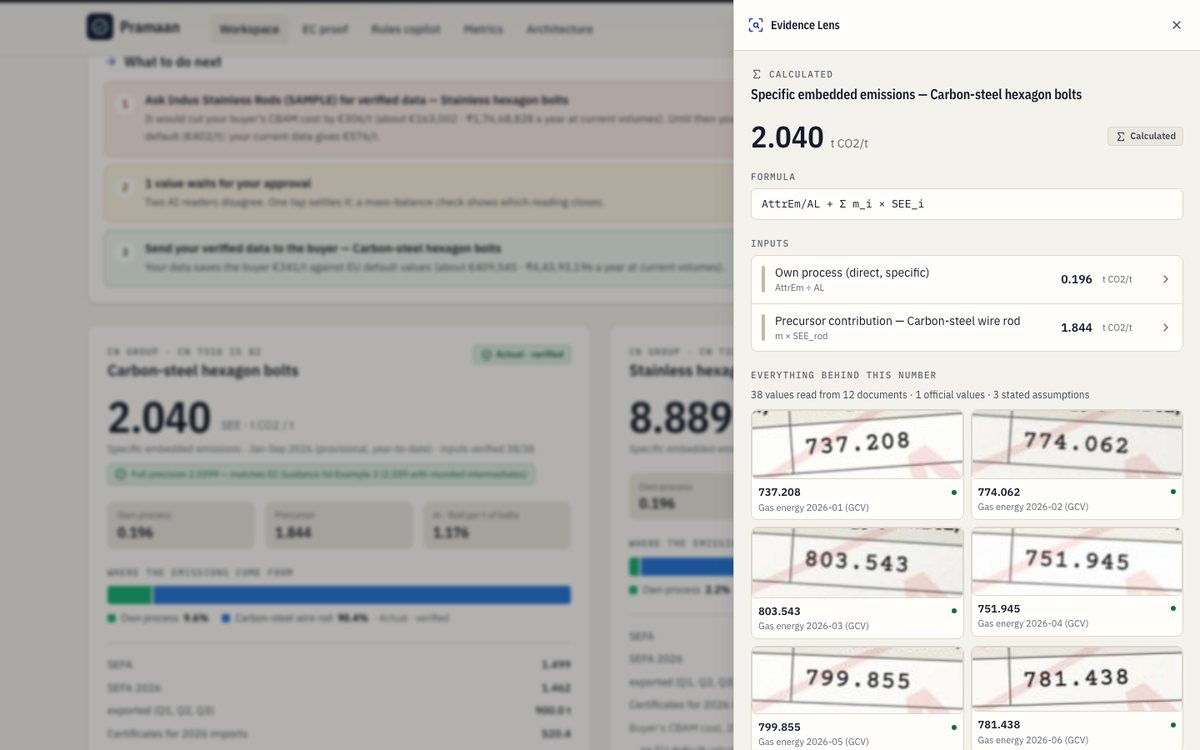
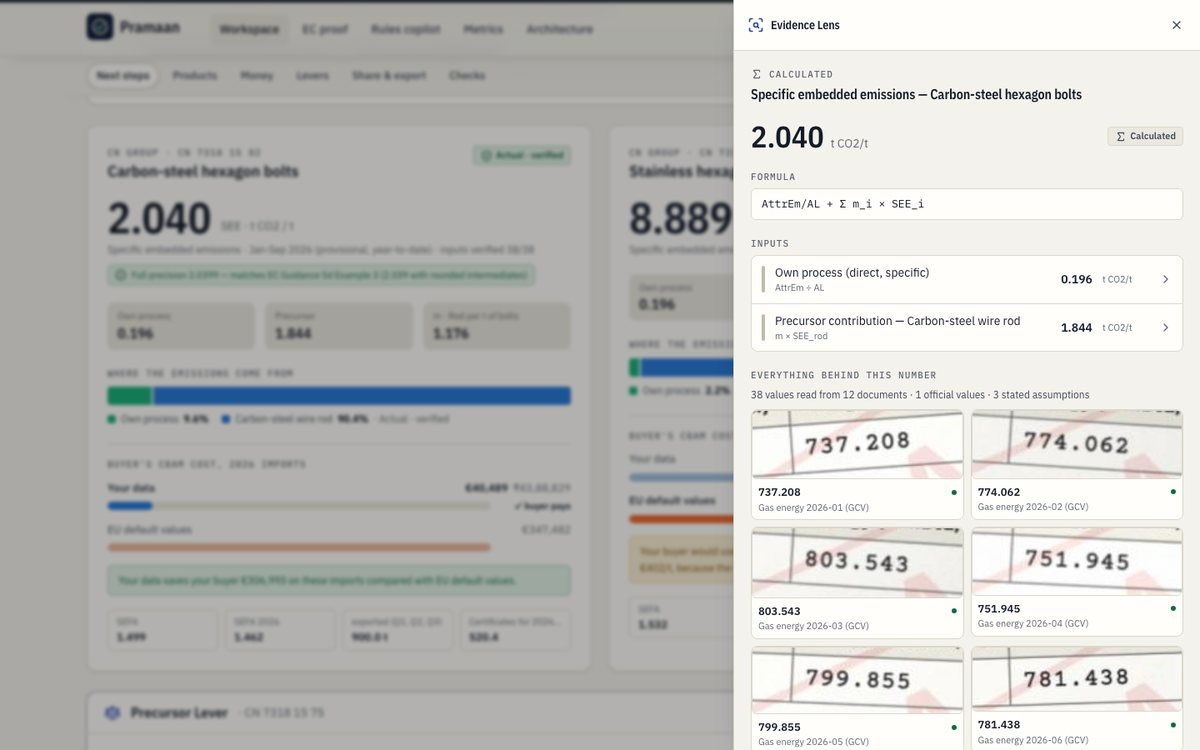
docs: design and motion section, new screenshots and GIF, progress log
Claude-Session: https://claude.ai/code/session_01YFRL3vM1jtQaZox7nyY3Ef

diff --git a/docs/DEMO_SCRIPT.md b/docs/DEMO_SCRIPT.md
@@ -8,8 +8,8 @@ are what the sample factory shows (Jan–Sep 2026, provisional).
 |---|---|---|
 | **0:00 – 0:20** · Hook | Landing page; hero lens cycling over the gas bill and the handwritten scrap log | "Ludhiana. A bolt maker's German buyer writes: send your CBAM emissions data — or cut your price. Since January the EU charges importers for the carbon in steel goods, and without verified data they pay on punitive default values. Twenty-five to thirty thousand Indian MSMEs are exposed. Pramaan gives them CBAM proof from a phone photo." |
 | **0:20 – 0:45** · Capture | Click **Process live** → Capture: 24 photos (gas bills, rod invoices, Hindi/Punjabi register and scrap log). Agent timeline streams: Classifier 24/24, Extractor, SecondReader | "The owner photographs bills, rod invoices and the handwritten registers. An ADK workflow takes over: Gemini 3.8 Flash classifies each page and reads every value with its exact region. Then a second model, Gemini 3.5 Flash-Lite, re-reads only the cropped region — blind — and the two readings must agree." |
-| **0:45 – 1:15** · Evidence Lens + review | **Close gaps**: the amber card — scrap log, "13.4" crossed out, "15.4" written. Mass-balance hint. Click **Approve 15.4**. Then Report → click **SEE 2.040** → Lens: 38 values from 12 documents → click a gas bill thumbnail → photo zooms to the highlighted 737.208 MMBtu, both readings, verified | "212 of 213 values agree. One handwritten correction doesn't — reader one sees 15.4, reader two sees the struck-out 13.4. The mass balance closes only with 15.4, so the owner approves it, and that approval is logged with name and time. Every number is clickable: the SEE of 2.04 opens its formula, then every value behind it, down to the highlighted box on the original photo." |
-| **1:15 – 1:45** · What to do next + Precursor Lever + Money on the table | Report opens on **What to do next**: (1) ask Indus Stainless Rods for verified data — saves the buyer €306/t, about €163,000 a year; until then the buyer uses the EU default (€402/t); (2) send the carbon-steel data to the buyer — €341/t. Click **Supplier data request letter**, switch to Hindi. Contribution bar (rod ≈ 90 %). Money chart; myth-buster card. Operations levers: EC Example 2 rod data + electric heat treatment → €402 → €81/t | "The report opens with decisions, not tables. For bolts made from bought wire rod, the rod is ninety percent of the emissions. The stainless rod supplier hasn't shared data, so the rod sits on a marked-up default — today the buyer is better off declaring the EU default, €402 a tonne. Pramaan writes the data-request letter in English and Hindi; with verified supplier data the cost falls to €97. For the carbon bolts, actual data saves the buyer €341 a tonne — computed with the Commission's real formula, not the 2.5 % myth. And the levers show what the plant itself can change: supplier, scrap, heat treatment." |
+| **0:45 – 1:15** · Evidence Lens + review | **Close gaps**: the amber card — scrap log, "13.4" crossed out, "15.4" written. Mass-balance hint. Click **Approve 15.4** — the card is stamped *Approved* and folds away. Then Report → click **SEE 2.040** → Lens: 38 values from 12 documents → click a gas bill thumbnail → photo zooms to the highlighted 737.208 MMBtu, both readings, verified | "212 of 213 values agree. One handwritten correction doesn't — reader one sees 15.4, reader two sees the struck-out 13.4. The mass balance closes only with 15.4, so the owner approves it, and that approval is logged with name and time. Every number is clickable: the SEE of 2.04 opens its formula, then every value behind it, down to the highlighted box on the original photo." |
+| **1:15 – 1:45** · What to do next + Precursor Lever + Money on the table | Report opens on the verdict (counts up): your data saves the buyer **€409,545 a year**, **+€163,002** within reach, 1 of 2 lines ready. Then **What to do next**: (1) ask Indus Stainless Rods for verified data — saves the buyer €306/t, about €163,000 a year; until then the buyer uses the EU default (€402/t); (2) send the carbon-steel data to the buyer — €341/t. Click **Supplier data request letter**, switch to Hindi. Contribution bar (rod ≈ 90 %). Money chart; myth-buster card. Operations levers: EC Example 2 rod data + electric heat treatment → €402 → €81/t | "The report opens with decisions, not tables. For bolts made from bought wire rod, the rod is ninety percent of the emissions. The stainless rod supplier hasn't shared data, so the rod sits on a marked-up default — today the buyer is better off declaring the EU default, €402 a tonne. Pramaan writes the data-request letter in English and Hindi; with verified supplier data the cost falls to €97. For the carbon bolts, actual data saves the buyer €341 a tonne — computed with the Commission's real formula, not the 2.5 % myth. And the levers show what the plant itself can change: supplier, scrap, heat treatment." |
 | **1:45 – 2:10** · Verifier pack, buyer link, copilot | Exports: PDF, Excel, verifier pack. Create buyer link → open in a logged-out window: summary only, "provisional" banner. Rules copilot: "Is scrap counted?" → answer with Guidance 3 p. 107 citation | "Out come a PDF report, an Excel workbook and a verifier pack with every source image, region and control check. The EU importer gets a read-only link with exactly what they declare — no plant data. And a rules copilot answers method questions with page citations from the Commission's guidance." |
 | **2:10 – 2:35** · Architecture + own factory | Architecture page; then **Or start with your own documents**: private project with a passcode, product lines proposed by the ProductLines agent from the invoices (CN codes checked) and confirmed by the owner | "Under the hood: one Cloud Run service; an ADK 2 workflow of Classifier, a ProductLines agent that sets up a new factory from its own export and rod invoices, Extractor, blind SecondReader, human review, control checks and a deterministic Decimal engine exposed as a tool. Gemini on Agent Platform, Firestore, Cloud Storage. The LLM never does arithmetic; every CN code it proposes is checked against the Commission's files; and an exporter's own project is private behind a passcode." |
 | **2:35 – 2:55** · Proof | **EC proof** page: 8/8 cases green (EC Example 3: 2.039, Example 1: 3,690 certificates…), Metrics page | "Proof: the engine reproduces the Commission's worked examples live — SEE, SEFA and certificates — and we log the two inconsistencies we found in them. Extraction is evaluated on a 24-document photographed test set: [field accuracy and timing from the Metrics page]." |

diff --git a/README.md b/README.md
@@ -38,12 +38,12 @@ Industrial Efficiency) by team **Innovative Warriors**.
 
 | 1 · **Add your documents** | 2 · **What's missing?** (or answer by **voice** in Hindi / Punjabi / Tamil) | 3 · **Here's your proof** |
 |---|---|---|
-| Phone camera or upload. Live agent timeline. Your own factory: type your product lines (every CN code checked against the official files as you type) or let the **ProductLines agent** propose them from your export and rod invoices. | Checklist per production process. Green: two readers agree. Amber: needs your tap. Red: missing or on defaults. EN / हिंदी / தமிழ் / Tiếng Việt (complete, checked in CI). | **What to do next** with the money attached, SEE per CN group, Evidence Lens on every number, Precursor Lever, Money on the table, operations levers, PDF / Excel / verifier pack, buyer link. |
+| Phone camera or upload. Live agent timeline. Your own factory: type your product lines (every CN code checked against the official files as you type) or let the **ProductLines agent** propose them from your export and rod invoices. | Checklist per production process. Green: two readers agree. Amber: needs your tap. Red: missing or on defaults. EN / हिंदी / தமிழ் / Tiếng Việt (complete, checked in CI). | The answer first: **what your data saves your buyer a year, what more is within reach, how many product lines are ready**. Then **What to do next** with the money attached, SEE per CN group, Evidence Lens on every number, Precursor Lever, Money on the table, operations levers, PDF / Excel / verifier pack, buyer link. |
 
 | What to do next | Operations levers |
 |---|---|
 | ![What to do next](docs/screenshots/next-steps.jpg) | ![Operations levers](docs/screenshots/levers.jpg) |
-| The report opens with the decisions: ask Indus Stainless Rods for verified data (saves the buyer €306/t, about €163,000 a year), one value to approve, send the carbon-steel data to the buyer (€341/t). The buyer's cost is the same number everywhere: the cheaper of your data and the EU default. | Rod supplier's verified data, scrap rate and heat treatment (gas per tonne or electric), computed by the same Decimal engine, with the rod and gas saved per year. Less scrap lowers SEE, but SEFA falls with it, so the 2026 cost moves little: the panel says so. |
+| The report opens with the verdict (your data saves the buyer €409,545 a year; €163,002 more is within reach; 1 of 2 product lines ready to declare) and then the decisions: ask Indus Stainless Rods for verified data (€306/t), one value to approve, send the carbon-steel data to the buyer (€341/t). The buyer's cost is the same number everywhere: the cheaper of your data and the EU default. | Rod supplier's verified data, scrap rate and heat treatment (gas per tonne or electric), computed by the same Decimal engine, with the rod and gas saved per year. Less scrap lowers SEE, but SEFA falls with it, so the 2026 cost moves little: the panel says so. |
 
 | Evidence Lens | Blind two-reader check |
 |---|---|
@@ -53,6 +53,30 @@ Industrial Efficiency) by team **Innovative Warriors**.
 | Money on the table | Proof against the Commission's examples |
 |---|---|
 | ![Money on the table](docs/screenshots/money.jpg) | ![EC proof](docs/screenshots/proof.jpg) |
+
+### Design: motion that explains
+
+The "Mill Certificate" look (IBM Plex, paper and navy ink, statuses drawn as stamps) moves only
+where the movement says something:
+
+* **Computed numbers settle into place.** The verdict and SEE count up the first time you see them, and
+  every lever value tweens when you change an input, so you see what moved and by how much.
+* **Two readers, in order.** In the Evidence Lens and on the review card, reader 1's value appears,
+  then reader 2's (crop only), then the verdict: ✓ agree, or ≠ with the mass-balance check lighting up
+  the reading it supports.
+* **Read here.** The photo glides to the value, the rest of the page dims, and a reading beam sweeps
+  the box once.
+* **Approved is a stamp.** Approving a value presses an *Approved* stamp onto the card before it folds
+  away, a toast confirms the recalculation, and the readiness ring moves.
+* **Where you are.** Drilling into a number slides forward and *Back* slides back, with a trail of
+  the path; the steps and the report's section bar have a sliding highlight; the agent timeline fills
+  as each agent finishes and documents show a scanner line while they are read.
+* **Time flows left to right.** The money chart draws 2026 → 2034; lines morph when you switch
+  product or turn on the supplier what-if.
+
+Everything respects *reduced motion* (numbers appear final, nothing slides), works at 360 px, in
+light and dark, in all four languages, and passes axe (WCAG 2.1 A/AA: 0 violations on every page and
+dialog).
 
 ### The sample factory (fictional)
 

diff --git a/docs/PROGRESS.md b/docs/PROGRESS.md
@@ -1,6 +1,39 @@
 # Progress log (for the team and for resuming work)
 
-_Last updated: 2026-10-12 IST (judge-review fixes; `main` pushed to https://github.com/JeyaanthAnandan/pramaan (public); not deployed yet)._
+_Last updated: 2026-10-12 IST, evening (UI and motion pass; `main` pushed to https://github.com/JeyaanthAnandan/pramaan (public); not deployed yet)._
+
+## 2026-10-12 (evening) — UI and motion pass (second mock judging, UX focus)
+
+* **Answer-first report**: a verdict panel opens the report (your data saves the buyer €409,545 a
+  year; +€163,002 within reach if Indus sends data; 1 of 2 product lines ready), with the provisional
+  notice as its footer; a sticky "on this page" bar follows the section in view; product cards draw
+  the buyer's two costs to scale and mark the one the buyer pays.
+* **Motion with meaning** (`motion` 12.43.0, `src/lib/motion.tsx`): numbers count up the first time
+  they are seen and tween when inputs change; reader 1 → reader 2 → verdict (✓ or ≠, the mass balance
+  lights up the reading it supports); the photo glides to the value, the page around it dims and a
+  reading beam sweeps the box; approving presses an *Approved* stamp, folds the card away and a toast
+  confirms; the lens slides forward and back with a path trail; steps and segmented controls have a
+  sliding highlight; the agent timeline fills as agents finish and documents show a scanner line while
+  they are read; the money chart draws 2026 → 2034 and morphs when the product or what-if changes; the
+  levers chart adds the scenario line only once something changed; landing hero tells the two-reader
+  story with pause / step controls, and a pipeline strip shows one photo's path; EC proof checks tick
+  in turn on every run; skeletons instead of spinners; theme switch cross-fades.
+* Reduced motion: numbers appear final, nothing slides (MotionConfig `reducedMotion="user"` + CSS).
+* Fixes found on the way: long supplier names pushed the phone layout sideways in Tamil and Vietnamese
+  (badges now wrap); buyer-page list markup, monitoring-plan contrast and the letter dialog's scroll
+  area (keyboard) — all axe findings on screens not scanned before.
+* Judging robustness: sample loads per address raised from 40 to 120 an hour (a room of judges can
+  share one office address); if the limit is ever hit, the landing page reopens the visitor's earlier
+  sample copy instead of showing an error.
+* Dependencies: `react-router-dom` 6.30.6, `vite` 5.4.21, `postcss` 8.5.28 (security fixes, patch
+  level). Remaining `npm audit` items are dev tooling that needs a major upgrade (Tailwind 4, Vite 8).
+  First-load JS is 175 KB gzip (+46 KB for `motion`).
+
+Checks: backend 127 passed + 1 opt-in skipped; ruff, mypy clean; frontend `npm ci`, `check:i18n` and
+build clean; `scripts/ui_smoke.py` passes (desktop + 360 px); axe: 0 WCAG 2.1 A/AA violations on every
+page, the Evidence Lens and the letter dialog, light and dark, and on the phone; no horizontal scroll
+at 360 px in EN/HI/TA/VI; README screenshots and the Evidence Lens GIF regenerated.
+
 
 ## 2026-10-12 — fixes from a mock judging against the official rubric
 

diff --git a/docs/DECK_NOTES.md b/docs/DECK_NOTES.md
@@ -32,6 +32,11 @@ register and scrap log, export invoices) → 213 values, each with its region on
 * Own factory: product lines typed (CN codes checked live against the official files) or
   proposed by the ProductLines agent from export and rod invoices; private project with a
   passcode (hash only stored).
+* Design (UX 10 % and the Best UI/UX award): the report answers first (€409,545 a year saved for the
+  buyer, +€163,002 within reach, 1 of 2 lines ready); motion only where it explains — numbers settle
+  into place, reader 1 → reader 2 → verdict, a reading beam on the photo, an *Approved* stamp, the
+  agent timeline filling as agents finish; reduced-motion safe, 360 px, light/dark, 4 languages,
+  axe 0 WCAG A/AA violations.
 
 ## 5. Gen AI core (40 % of the score)
 * **ADK 2.11 Workflow** graph: Intake → Classifier → **ProductLines** → Extractor → SecondReader →
